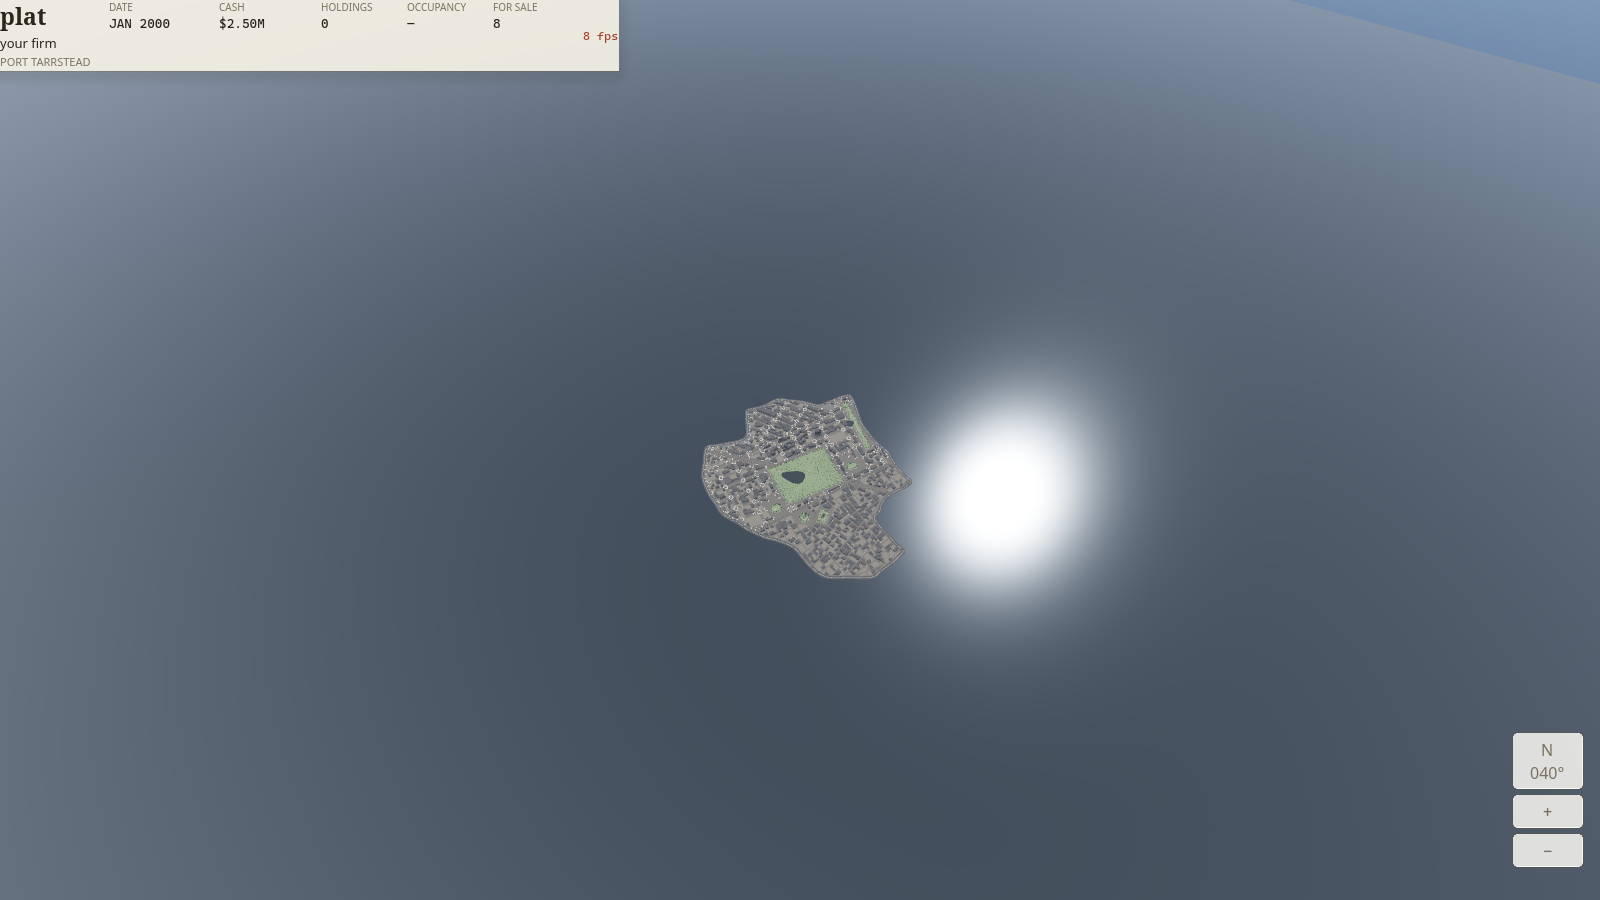
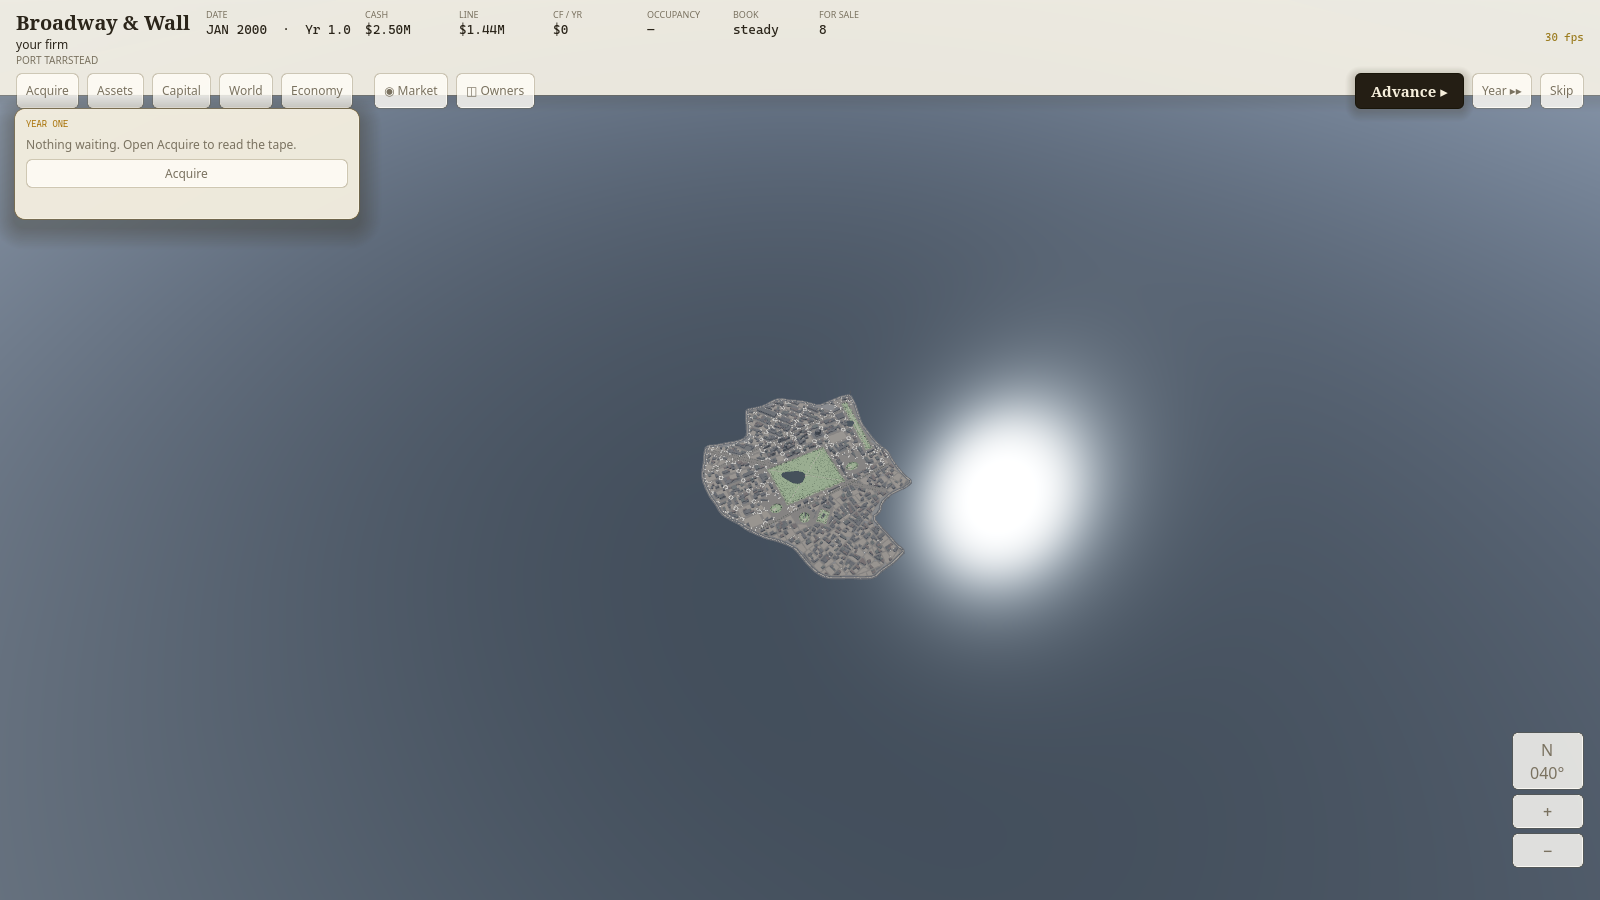
Evidence frames for the U6 firm rooms
Selftest bought 71 E 11th St (vacant lot, $94k ask), then opened
Portfolio, Economy, News, Debt, and Books. Cap rates read as percents.
Start room is hidden. Same seed, same path, every time.

Changed region(s): [[0.0, 0.0, 1.0, 0.28], [0.1875, 0.0, 0.3125, 0.0311]]

diff --git a/docs/UI-PLAN.md b/docs/UI-PLAN.md
@@ -439,7 +439,11 @@ develop are still U7. Deals, Notes, Leasing, Staff, Research remain stubs.
 
 ## 9. Current evidence
 
-`renders/ui_current.png` is the chrome as of this plan: a left-hand vitals
-sticker, a compass, and the city. The parcel card and command rail that
-`game_ui.gd` builds did not even read in the frame — which is the point.
-This is the baseline, not a claim that the job is done.
+- `renders/ui_start.png` — start room
+- `renders/ui_current.png` — marketplace tape
+- `renders/ui_portfolio.png` — one deed after the selftest buy
+- `renders/ui_economy.png` — cycle + four space markets
+- `renders/ui_news.png` — the tape
+- `renders/ui_debt.png` — the line, no mortgages yet
+- `renders/ui_books.png` — cash / NW / year-2000 ledger
+- `renders/playable_selftest.png` — the click path that produced them
